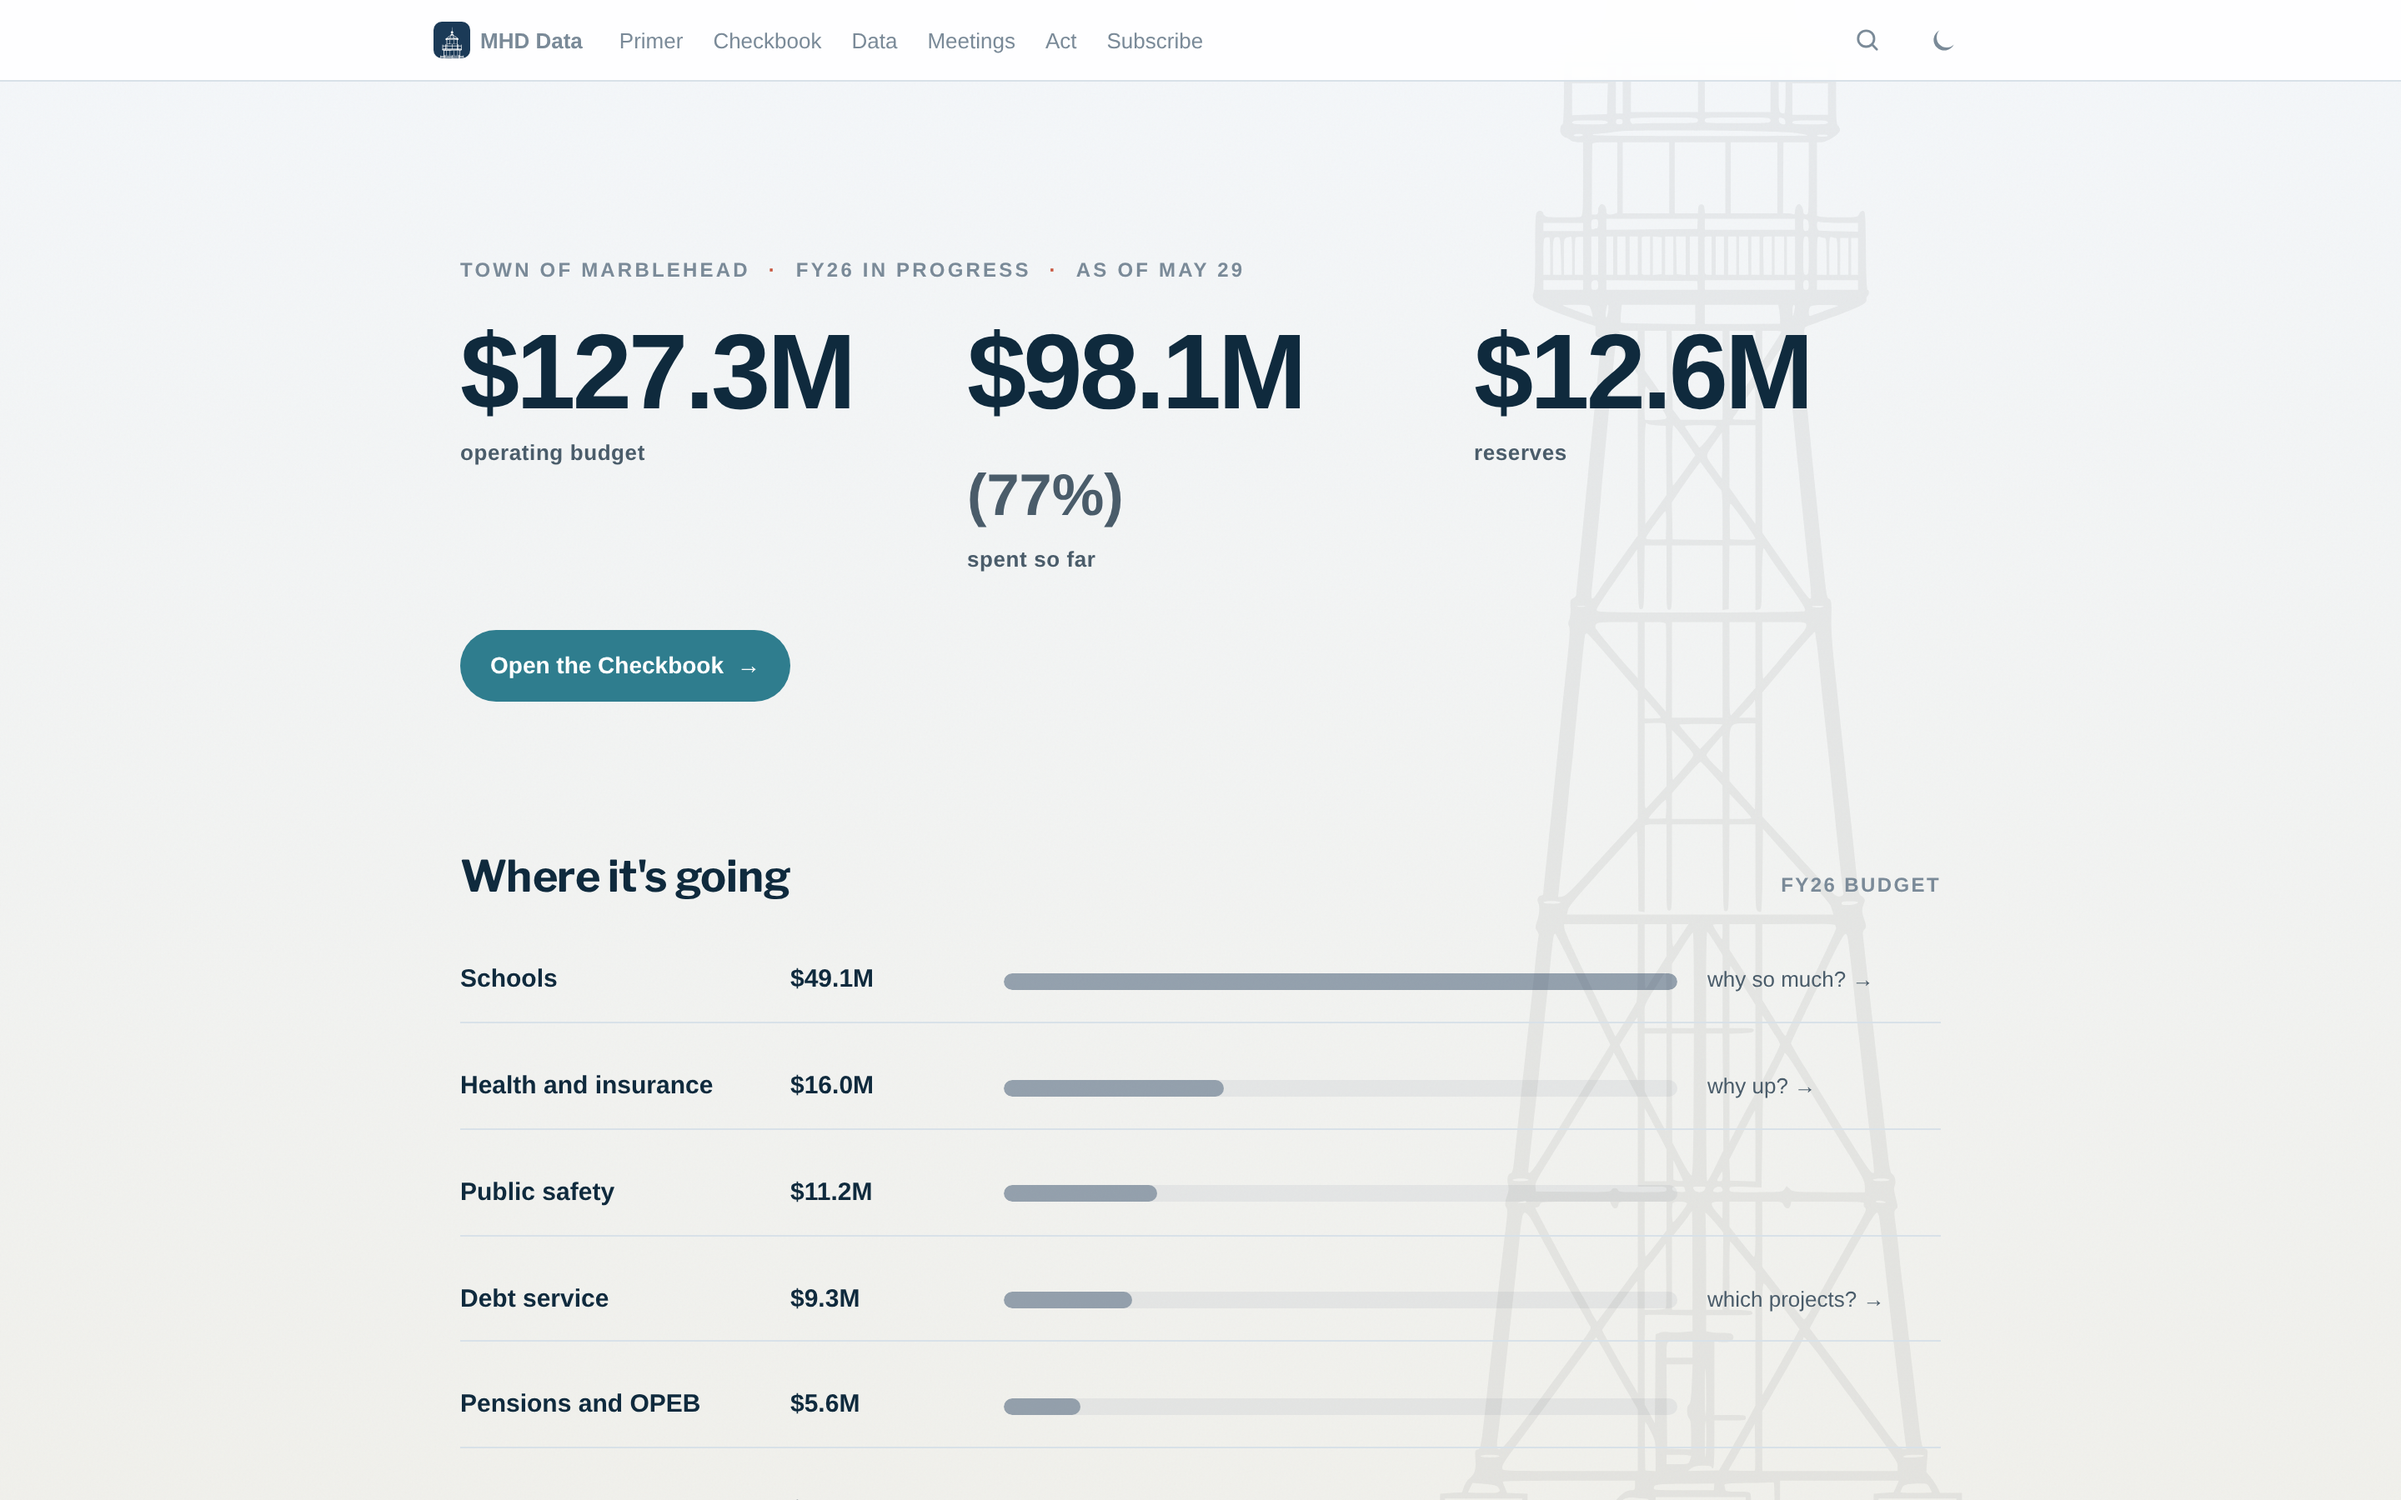
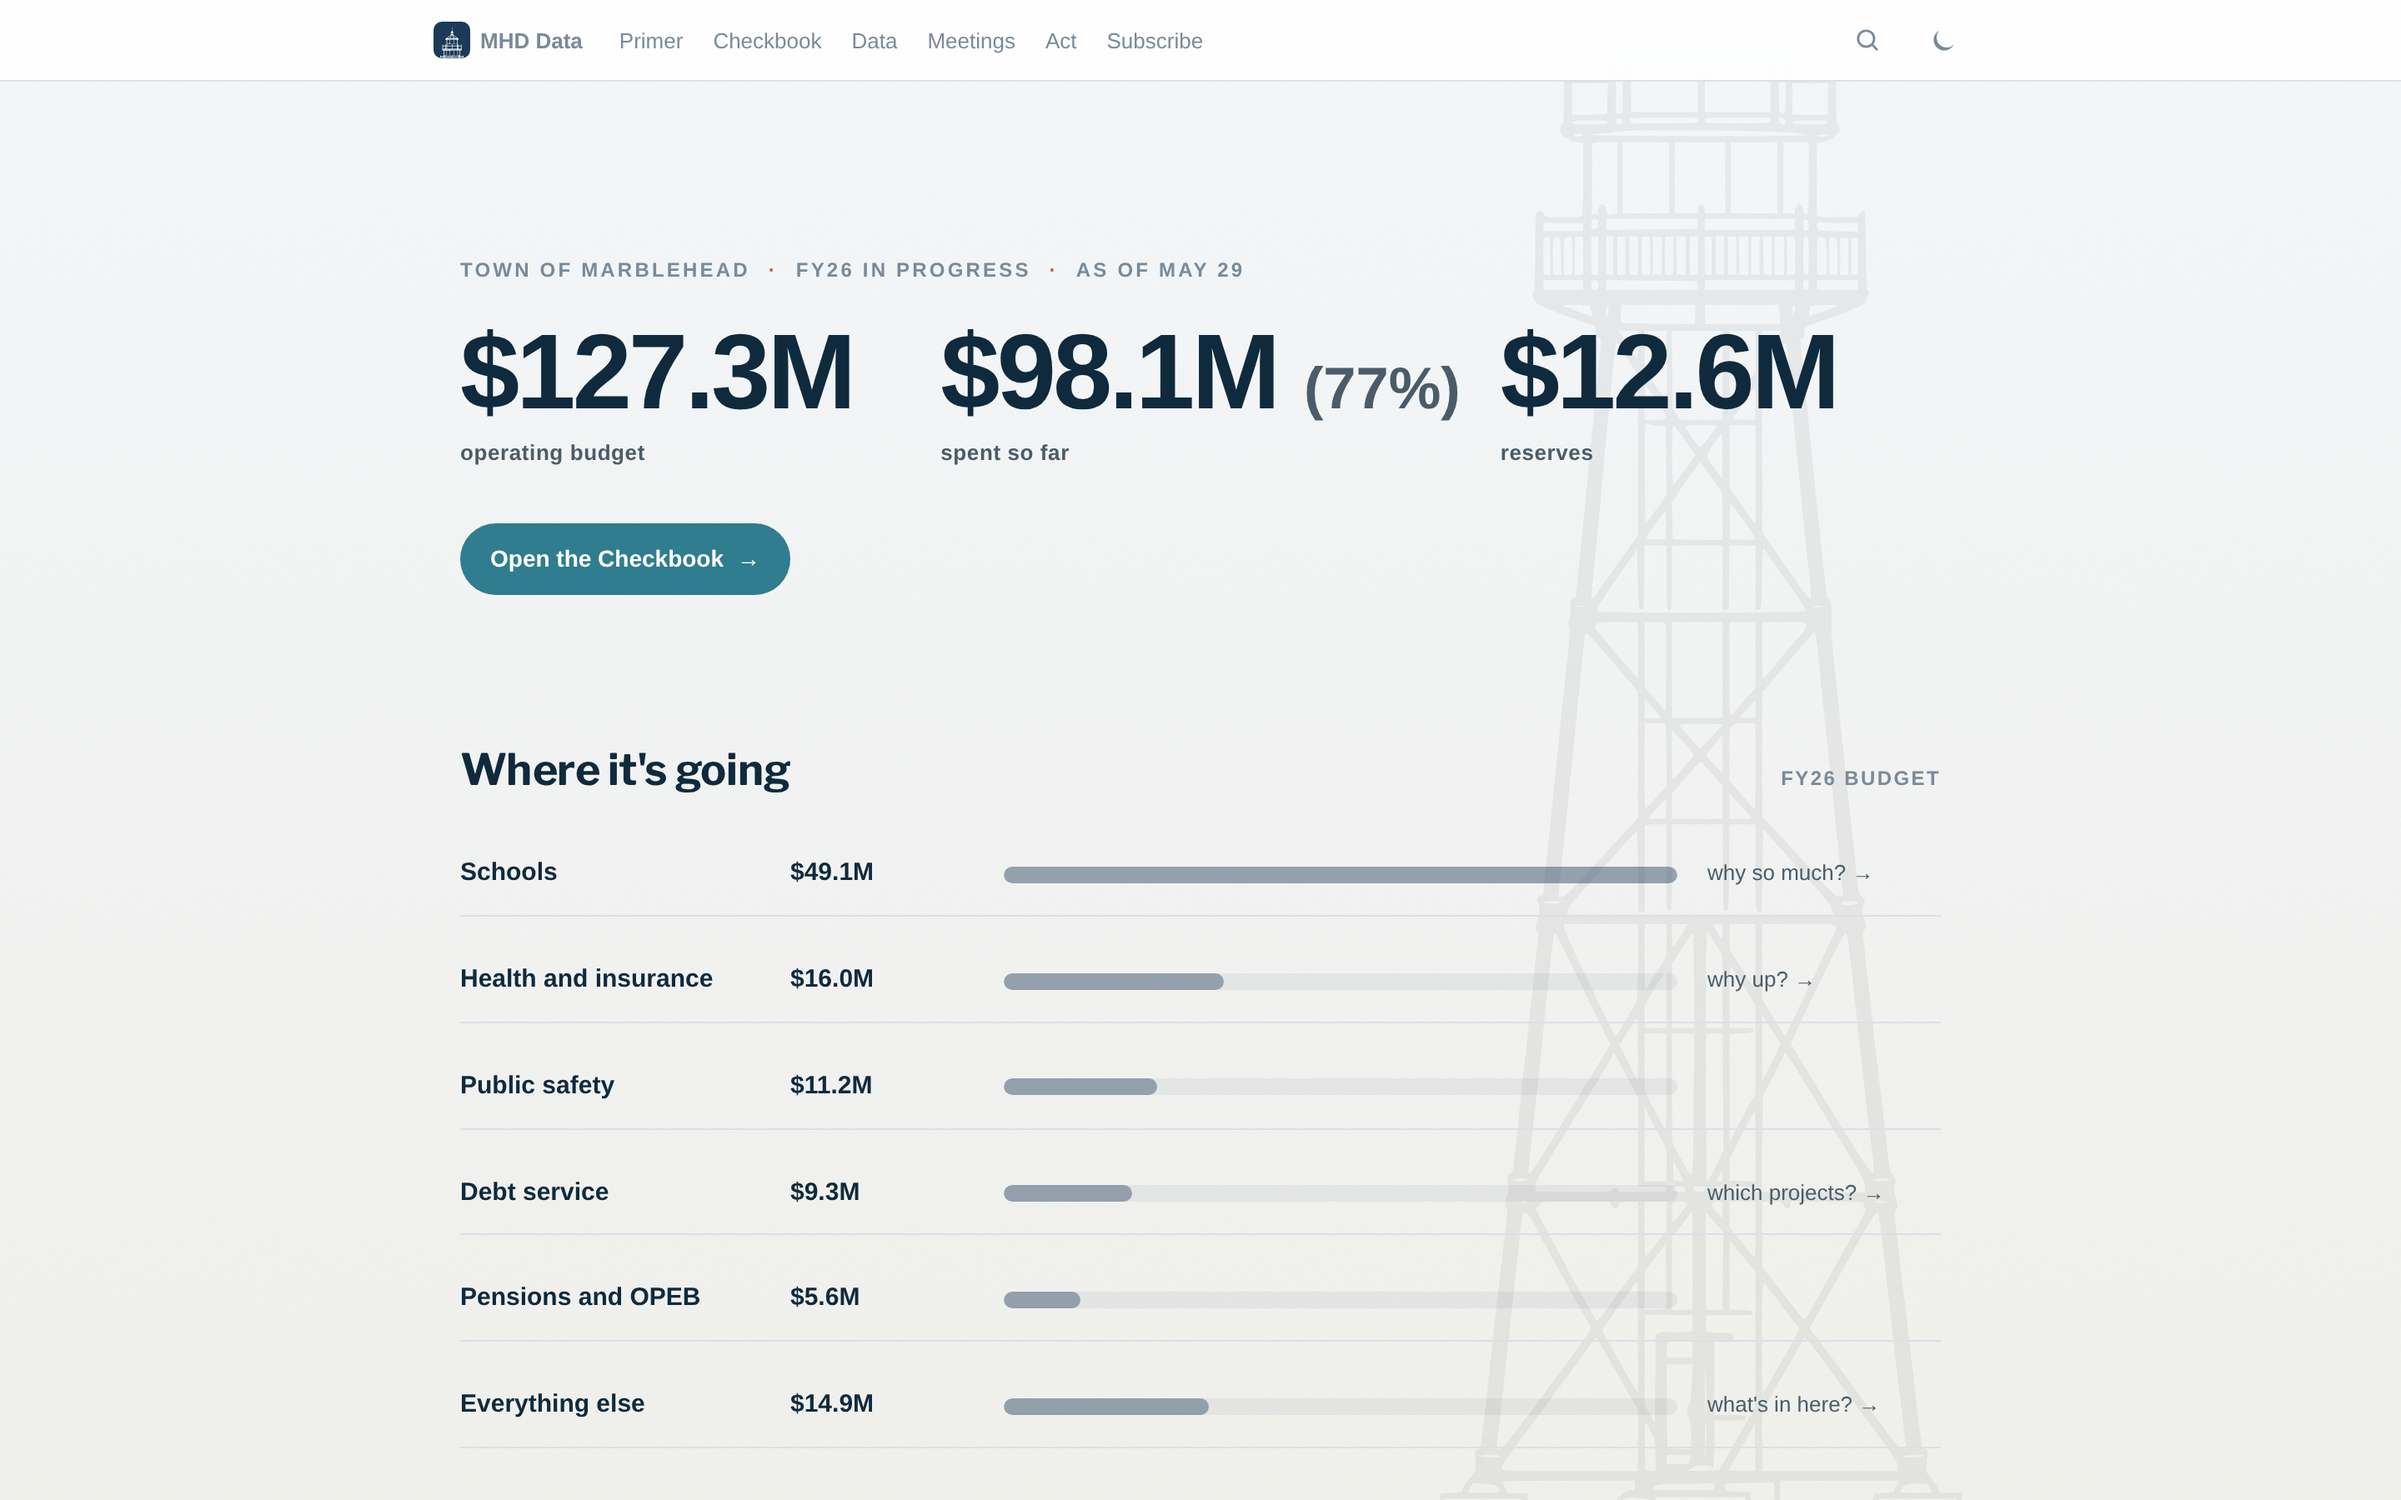
Address final-review fixes: KPI nowrap, Zone 4 grid, copy nit
Final code review surfaced three visual issues in the full-page proof:

1. Middle KPI ($98.1M) was wrapping the inline (77%) span to a second
   line because of clamp() font sizing + whitespace in markup, making
   the spent-so-far card visibly taller than its siblings.
   Fix: white-space: nowrap on .dashboard-kpi-value.

2. Zone 4 "What's in play" had 4 cards in a 3-column grid, producing
   a 3+1 orphan row on desktop.
   Fix: 2-col at 800px, 4-col at 1100px so 4 cards fit one row on
   typical desktop widths and stack 2x2 on narrower viewports.

3. "Everything else" why-text was imperative ("drill in") while every
   other why-text is a question. Inconsistent register.
   Fix: "what's in here?" matches the spec sketch.

Plan deviation worth noting: Zone 4 stayed plain (not home-stop--tinted
per the plan's intent of a "data -> questions" rhythm break). Per Task 6
implementer's editorial judgment, two adjacent tinted sections (Zone 4
above the tinted Zone 5) read as one heavy block, while cards alone
visually mark the transition from rows to clickable open questions.
Keeping that call.

Smoke test: 100/0. Screenshots refreshed.

Generated with [Claude Code](https://claude.ai/code)
via [Happy](https://happy.engineering)

diff --git a/index.html b/index.html
@@ -49,6 +49,7 @@ og_url: https://marbleheaddata.org/
     margin: 0 0 6px;
     color: var(--text);
     font-variant-numeric: tabular-nums;
+    white-space: nowrap;
   }
   .dashboard-kpi-pct {
     font-size: 0.55em;
@@ -174,7 +175,10 @@ og_url: https://marbleheaddata.org/
     gap: 14px;
   }
   @media (min-width: 800px) {
-    .in-play-cards { grid-template-columns: repeat(3, 1fr); }
+    .in-play-cards { grid-template-columns: repeat(2, 1fr); }
+  }
+  @media (min-width: 1100px) {
+    .in-play-cards { grid-template-columns: repeat(4, 1fr); }
   }
 
   .in-play-card {
